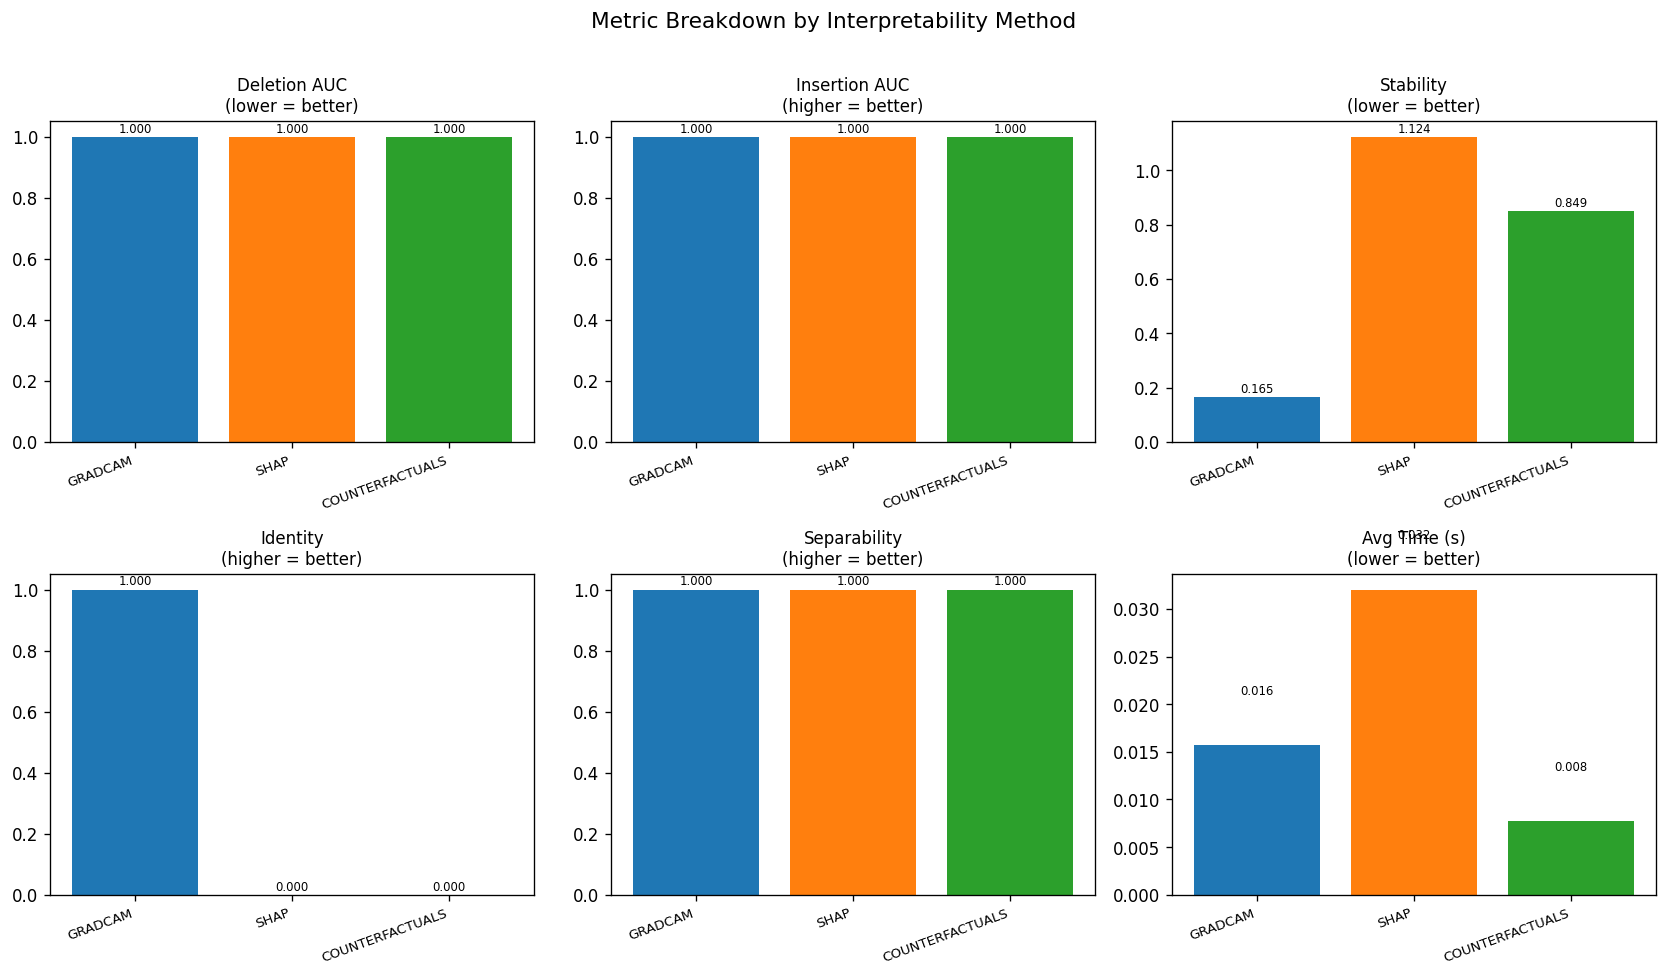
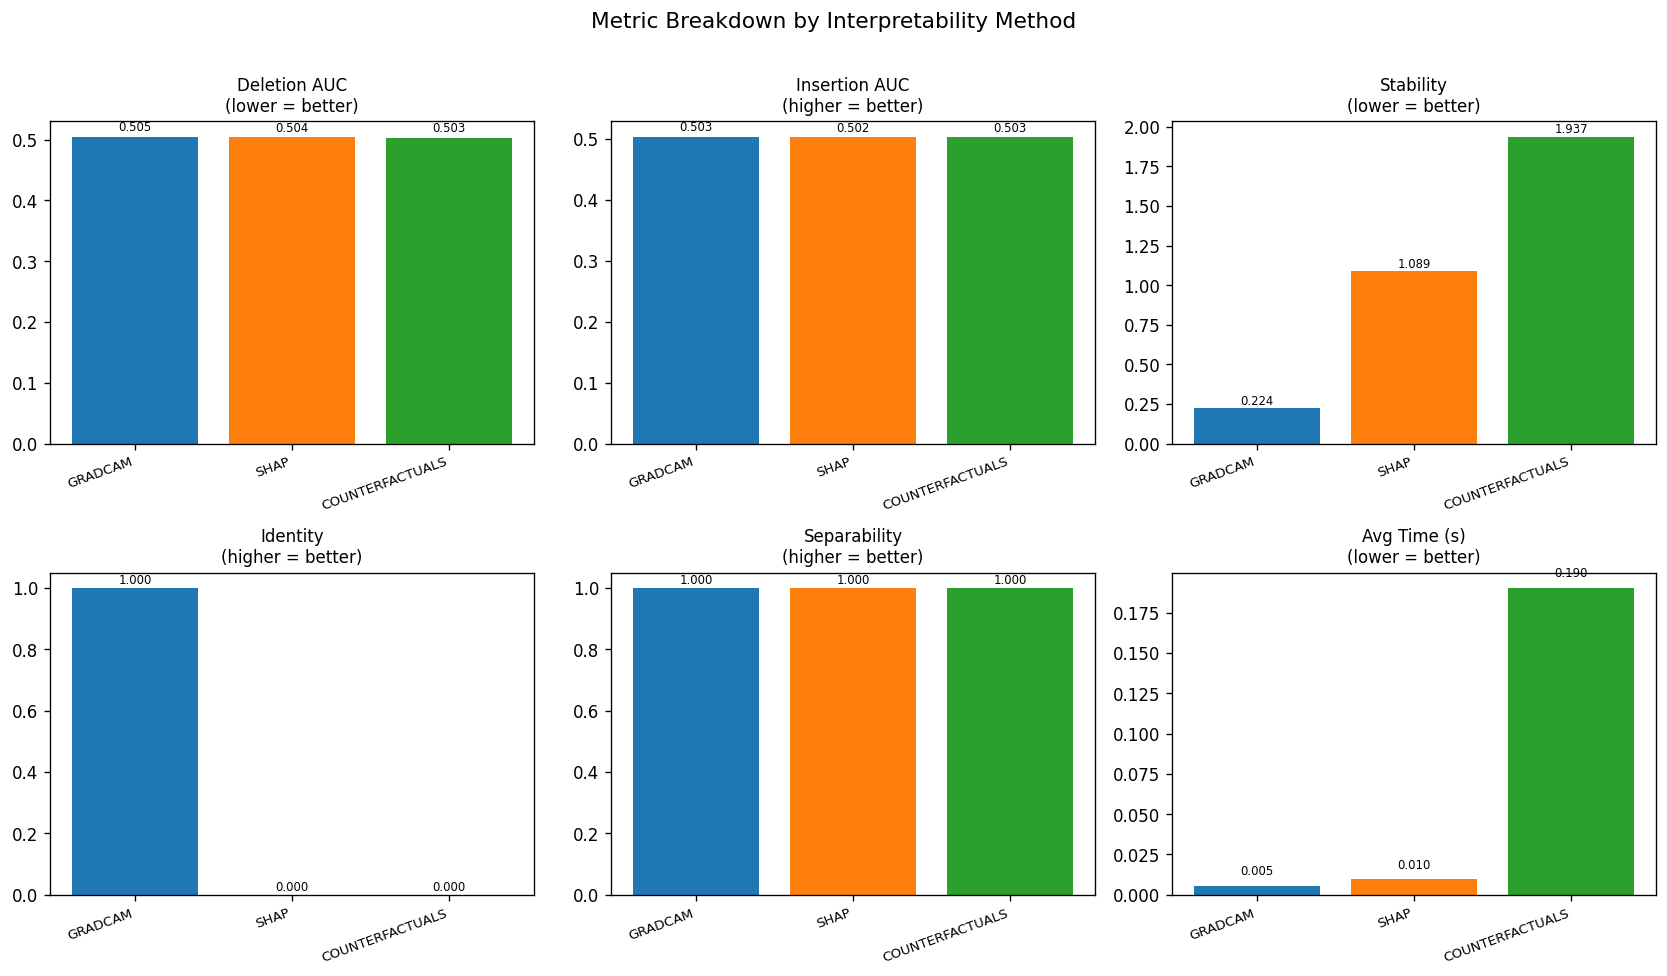
added load in full_metrics_pipeline if name main

diff --git a/full_metrics_pipeline.py b/full_metrics_pipeline.py
@@ -282,13 +282,17 @@ def compute_fidelity(
         # --- Deletion ---
         deleted = image.to(device) * mask_tensor
         with torch.no_grad():
-            score_del = F.softmax(model(deleted.unsqueeze(0)), dim=1)[0, label].item()
+            # score_del = F.softmax(model(deleted.unsqueeze(0)), dim=1)[0, label].item()
+            score_del = torch.sigmoid(model(deleted.unsqueeze(0))).item() # Binary output
+            
         deletion_scores.append(score_del)
 
         # --- Insertion: reveal top pixels on a blurred/black baseline ---
         inserted = image.to(device) * (1 - mask_tensor)  # only top pixels visible
         with torch.no_grad():
-            score_ins = F.softmax(model(inserted.unsqueeze(0)), dim=1)[0, label].item()
+            # score_ins = F.softmax(model(inserted.unsqueeze(0)), dim=1)[0, label].item()
+            score_ins = torch.sigmoid(model(inserted.unsqueeze(0))).item()  # Binary output
+            
         insertion_scores.append(score_ins)
 
     # AUC via trapezoidal integration over evenly-spaced steps
@@ -806,6 +810,7 @@ if __name__ == "__main__":
     model = CIFAKE_CNN(CONV_FILTER, CONV_LAYER, DENSE_NEURON, DENSE_LAYER).to(DEVICE)
     MODEL_PATH = "/home/cv04f26/ComputerVisionProject/models/model_32_2_64_1.pth"
     state_dict = torch.load(MODEL_PATH, map_location=DEVICE)
+    model.load_state_dict(state_dict) 
     model.eval()
 
     target_layer = find_last_conv_layer(model)
@@ -818,7 +823,7 @@ if __name__ == "__main__":
     config = EvalConfig(
         interpretability_method= "shap",
         target_layer           = target_layer,
-        n_samples              = 20,           # keep low for a quick test run
+        n_samples              = 100,           # keep low for a quick test run
         batch_size             = 8,
         device                 = "cuda" if torch.cuda.is_available() else "cpu",
         output_dir             = "./interpretability_results",
@@ -829,7 +834,7 @@ if __name__ == "__main__":
         separability_eps       = 1e-3,      # TODO In report we should argue for why this amount. 
         smoothgrad_n_samples   = 30,
         smoothgrad_noise_std   = 0.15,
-        counterfactual_steps   = 1,
+        counterfactual_steps   = 100,
         counterfactual_lam     = 0.5
     )
 
